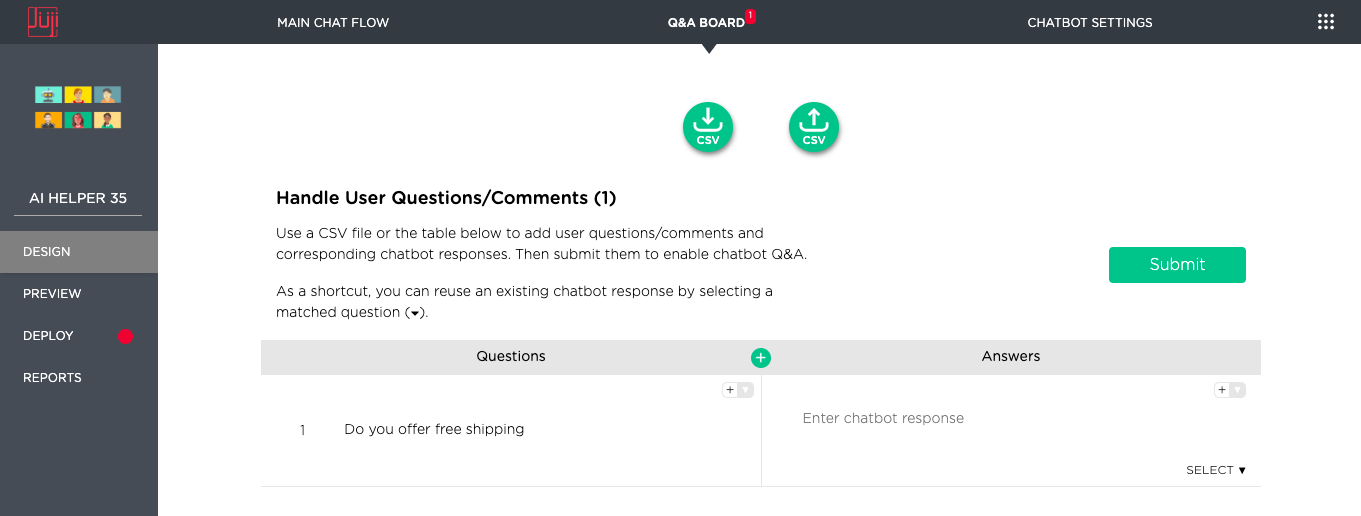
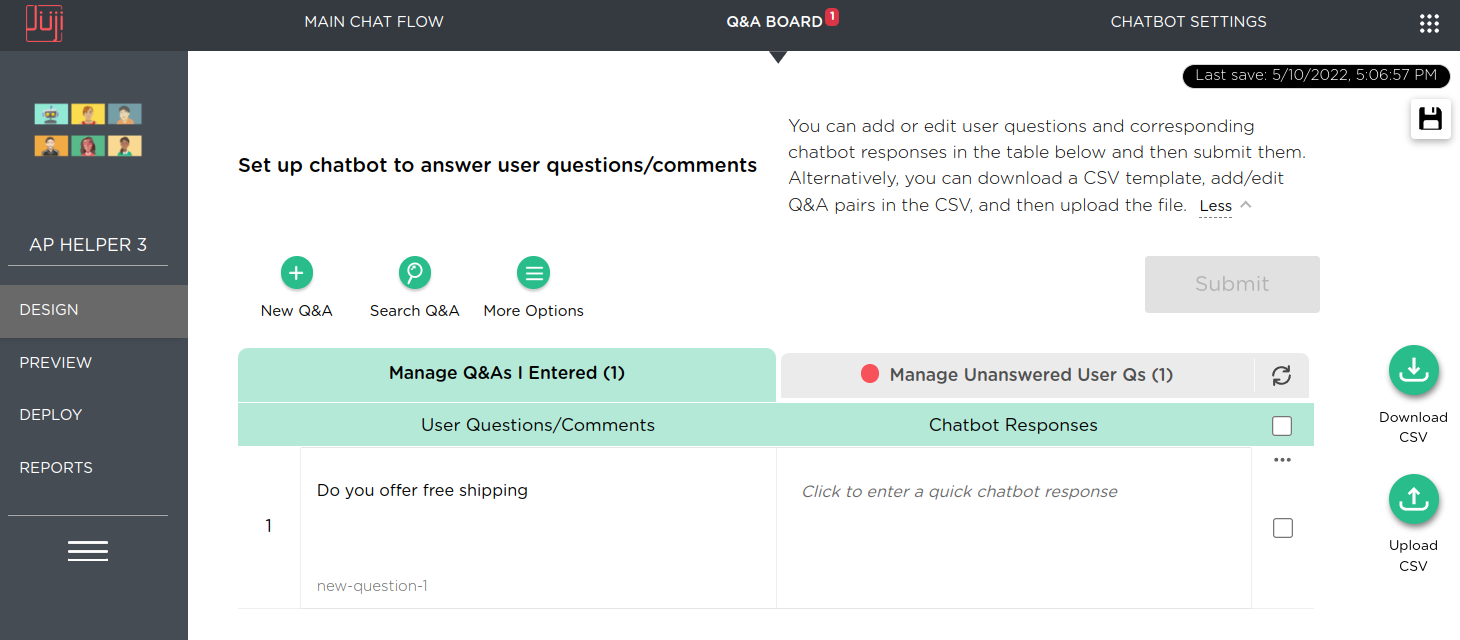
update Q&A descriptions with new design and more info on upload csv file formatting + styling change

diff --git a/docs/design.md b/docs/design.md
@@ -194,15 +194,16 @@ one unanswered user question (indicated by the red badge displayed
 next to the `Q&A Board`). Juji automatically detects unanswered user
 questions and displays such questions on the Q&A dashboard.
 
+#### **Upload Q&As CSV**
+
 <a name="qa-tips">**IMPORTANT TIP**</a> If you decide to put all your Q&As in a CSV file and then upload, download the CSV file first as it contains the required file format to fill in your Q&As.
 
 As shown below, each template includes four columns:
 
 <p align="center"><img src="../img/qa-csv.png" alt="CSV file of Q&A" width="650"/></p>
 
-All four columns must be preserved, so is their order.  Although the
-first column (**`ID`**) and the last column (**`Comment`**) can be
-left empty, the empty columns must still exist and cannot be deleted.
+First three columns must be preserved.  Although the first column (`ID`) can be left empty, it must still exist and cannot be deleted.
+Besides, other optional columns can be used for additional functionality. All columns order must be reserved.
 
 * **ID** You can use this column to give your Q&A pair a
     name/label. If you don't provide an ID, Juji will automatically
@@ -213,11 +214,17 @@ left empty, the empty columns must still exist and cannot be deleted.
     Q&As. Moreover, they also share all the alternative answers (see
     below).
 
-* **Question** This column holds questions and their varied expressions. 
+* **Question** Questions and their varied expressions. 
 
-* **Answer** This column holds answers. You can enter alternative answers to the same question. This will make your chatbot sound more intelligent. When there are alternative answers, a chatbot randomly chooses one to use when answering a matched question. 
+* **Answer** Answers. You can enter alternative answers to the same question. This will make your chatbot sound more intelligent. When there are alternative answers, a chatbot randomly chooses one to use when answering a matched question. 
 
-* **Comment** This column holds your comments, which is optional.
+* **Comment** (Optional) Comments.
+* **Multi-turn Q&A** (Optional) Multi-turn Q&A key. The specified multi-turn Q&A will start when the Q&A is triggered if the Multi-turn status is `active`.
+* **# of asking** (Reporting) Number of times the unanswered question get asked. Change in this column has no effect on the Q&A.
+* **Tag(s)** (Optional) Tags for the Q&A.
+* **Multi-turn status** (Optional) Status of the multi-turn Q&A, can be `inactive` or `active`.
+
+It's important to make sure the CSV file is saved with `.csv` extension and `UTF-8` encoding for the best performance. The file format and encoding can be updated in `save as` or `export as` options in both `Microsoft Excel` and `Numbers`.
 
 
 ### **Support Social Chitchat**

diff --git a/docs/chatbot-design-tips-advanced.md b/docs/chatbot-design-tips-advanced.md
@@ -62,11 +62,11 @@ in the left sidebar vertical scroll panel)
 3. Labels set the context for understanding and responding to user inquiries.
 4. Labels index user answers in an audience report.
 
-###. **1. See Your Structure In Seconds**
+### **1. See Your Structure In Seconds**
 
 The clearer and more concise the labels, the quicker you'll understand the strengths and weaknesses of your structure, and the faster you'll be able to navigate through the design and preview of your bot as you prepare it for primetime.
 
-###. **2. Search for Built-in Juji Dialog**
+### **2. Search for Built-in Juji Dialog**
 
 The more accurate the label the better Juji will find the best Ad-Lib Topics to cover your digressions away from the main flow and get your users back to where you need them to go. And the best part is this. The more accurate the matches with ad-lib topics, the less customization you'll have to do. As we build our ad-lib topics, the need to customize might even go down to the magic number. Zero. 
 

diff --git a/docs/trouble-shooting.md b/docs/trouble-shooting.md
@@ -116,6 +116,9 @@ fixes. Just in case the errors persist, you could do the following to
 These steps will help you clean up any of errors or inconsistencies
 in your Q&A KB.
 
+#### Formatting
+Another reason that might introduce error is the encoding of the CSV file. It's important to make sure the CSV file is saved with `.csv` extension and `UTF-8` encoding for the best performance. The file format and encoding can be updated in `save as` or `export as` options in both `Microsoft Excel` and `Numbers`.
+
 ## **Image does not show up in Facebook**
 
 ### **Description**
